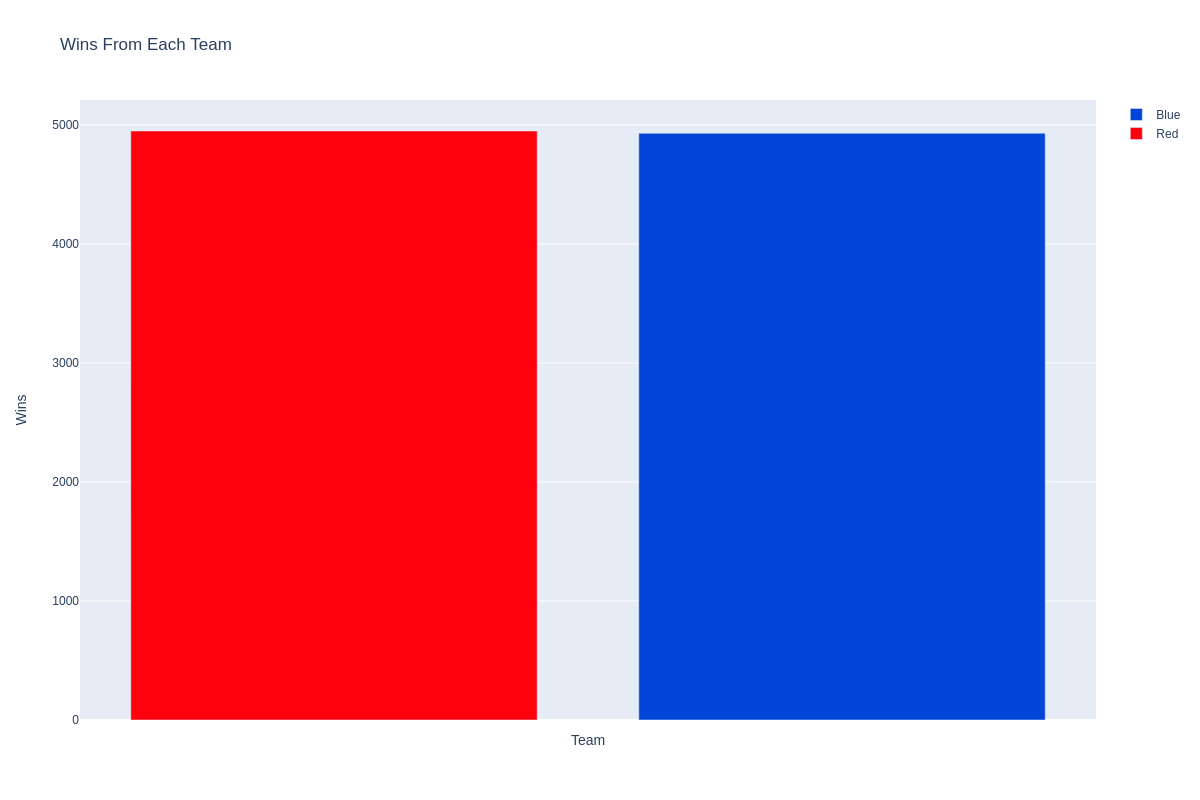
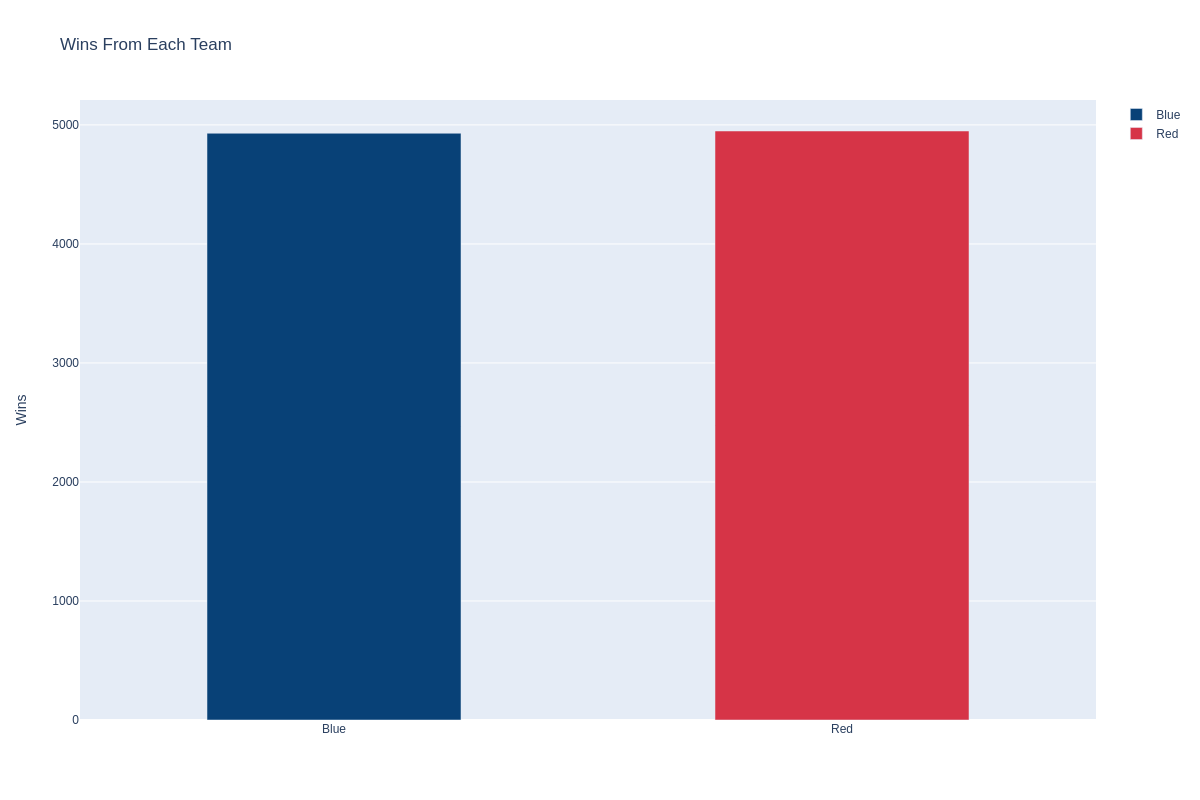
Improve wins and first blood visualizations

diff --git a/EDA/Features.py b/EDA/Features.py
@@ -63,10 +63,10 @@ def feature_eda(df):
     '''
 
     fig = go.Figure(data=[
-        go.Bar(name='Blue Win', x=blue_win['blueFirstBlood'], y=[np.sum(blue_win['blueFirstBlood'])]),
-        go.Bar(name='Blue Loss', x=red_win['blueFirstBlood'], y=[np.sum(red_win['blueFirstBlood'])]),
-        go.Bar(name='Red Win', x=red_win['redFirstBlood'], y=[np.sum(red_win['redFirstBlood'])]),
-        go.Bar(name='Red Loss', x=blue_win['redFirstBlood'], y=[np.sum(blue_win['redFirstBlood'])])
+        go.Bar(name='Blue Win', x=[0], y=[np.sum(blue_win['blueFirstBlood'])], width=0.5),
+        go.Bar(name='Blue Loss', x=[1], y=[np.sum(red_win['blueFirstBlood'])], width=0.5),
+        go.Bar(name='Red Win', x=[2], y=[np.sum(red_win['redFirstBlood'])], width=0.5),
+        go.Bar(name='Red Loss', x=[3], y=[np.sum(blue_win['redFirstBlood'])], width=0.5)
     ])
 
     fig.update_layout(
@@ -74,8 +74,9 @@ def feature_eda(df):
         height=800,
         width=1200,
         xaxis=dict(
-            showticklabels=False,
-            title='Team'
+            tickvals=[i for i in range(4)],
+            ticktext=[i for i in ['Blue Win', 'Blue Loss', 'Red Win', 'Red Loss']],
+            showticklabels=True
         ),
     )
 
@@ -354,7 +355,10 @@ def feature_eda(df):
         )
 
         #blue_fig.show()
-        red_fig.show()
+        #red_fig.show()
+
+
+
 
 
 

diff --git a/EDA/Target.py b/EDA/Target.py
@@ -8,14 +8,15 @@ def target_eda(df):
     blue_wins = df[df['blueWins'] == 1]
     blue_loss = df[df['blueWins'] == 0]
 
-    fig.add_trace(go.Bar(x=blue_wins['blueWins'], y=list(blue_wins['blueWins'].value_counts()), name='Blue', marker_color='#0045D7'))
-    fig.add_trace(go.Bar(x=blue_loss['blueWins'], y=list(blue_loss['blueWins'].value_counts()), name='Red',
-                         marker_color=['#FD000D']))
+    fig.add_trace(go.Bar(x=[0], y=list(blue_wins['blueWins'].value_counts()), name='Blue', marker_color='#084177', width=0.5))
+    fig.add_trace(go.Bar(x=[1], y=list(blue_loss['blueWins'].value_counts()), name='Red',
+                         marker_color=['#d63447'], width=0.5))
 
     fig.update_layout(
         xaxis=dict(
-            showticklabels=False,
-            title='Team'
+            showticklabels=True,
+            tickvals=[0, 1],
+            ticktext=[i for i in ['Blue', 'Red']],
         ),
         yaxis_title='Wins',
         title='Wins From Each Team',

diff --git a/Main.py b/Main.py
@@ -16,7 +16,7 @@ def main():
 
     Features.feature_eda(df)
     
-    #Target.target_eda(df)
+    Target.target_eda(df)
 
     df = FeatureEngineering.feature_engineer(df)
 
